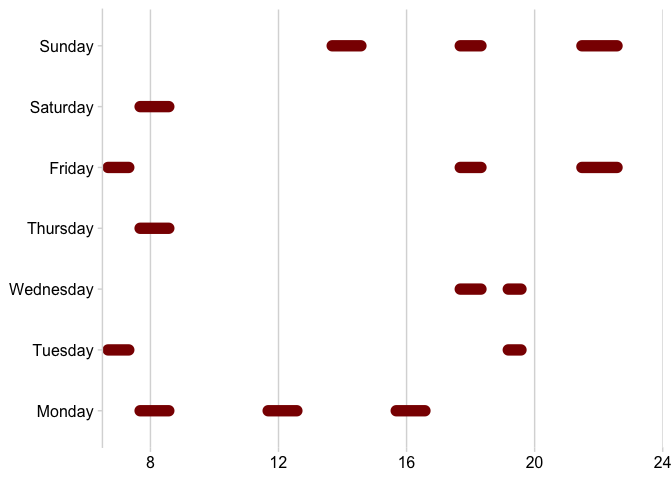
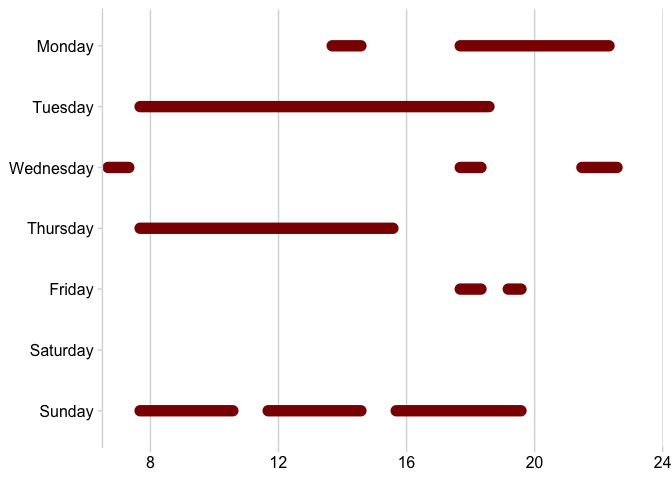
update readme

diff --git a/README.md b/README.md
@@ -34,8 +34,9 @@ devtools::install_github("tjebo/ggtrail")
 
 Make round segments that start and end where they should. Big shoutout
 to [Allan Cameron](https://github.com/AllanCameron) who created this
-amazing geom. There were only minor modifications needed for this
-package.
+amazing geom [on Stack
+Overflow](https://stackoverflow.com/questions/77494430/how-to-draw-segment-with-round-end-that-does-not-extend-beyond-values/77496853#77496853).
+There were only minor modifications needed for this package.
 
 ``` r
 df_hor <- data.frame(
@@ -57,11 +58,17 @@ ggplot(df_hor, aes(x, y)) +
 ``` r
 
 ## For example, this can be used to make nice looking rotas
-rota <- structure(list(day = structure(c(3L, 6L, 7L, 5L, 2L, 1L, 5L, 5L, 7L, 1L, 7L, 2L, 3L, 4L, 1L), levels = c("Monday", "Tuesday", "Wednesday", "Thursday", "Friday", "Saturday", "Sunday"), class = "factor"), on = c(17.5, 7.5, 17.5, 6.5, 6.5, 11.5, 17.5, 21.3, 13.5, 15.5, 21.3, 19, 19, 7.5, 7.5), off = c(18.5, 8.75, 18.5, 7.5, 7.5, 12.75, 18.5, 22.75, 14.75, 16.75, 22.75, 19.75, 19.75, 8.75, 8.75)), row.names = c(15L, 44L, 31L, 36L, 6L, 43L, 23L, 26L, 39L, 5L, 34L, 12L, 16L, 1L, 41L), class = "data.frame")
+rota <- structure(list(day = structure(c(3L, 6L, 7L, 5L, 2L, 1L, 5L, 
+5L, 7L, 1L, 2L, 3L, 4L, 1L), levels = c("Sunday", "Saturday", "Friday", "Thursday", "Wednesday", "Tuesday", 
+"Monday"), class = "factor"), 
+    on = c(17.5, 7.5, 17.5, 6.5, NA, 11.5, 17.5, 21.3, 13.5, 
+    15.5, NA, 19, 7.5, 7.5), off = c(18.5, 18.75, 22.5, 7.5, 
+    NA, 14.75, 18.5, 22.75, 14.75, 19.75, NA, 19.75, 15.75, 
+    10.75)), class = "data.frame")
 
 ggplot(rota) +
   geom_roundseg(aes(y = day, yend = day, x = on, xend = off),
-    color = "darkred", linewidth = 4
+    color = "darkred", linewidth = 4, na.rm = T
   ) +
   scale_x_continuous(limits = c(min(rota$on), 24), expand = c(0, 0), breaks = seq(0, 24, 4)) +
   labs(y = NULL, x = NULL) +
